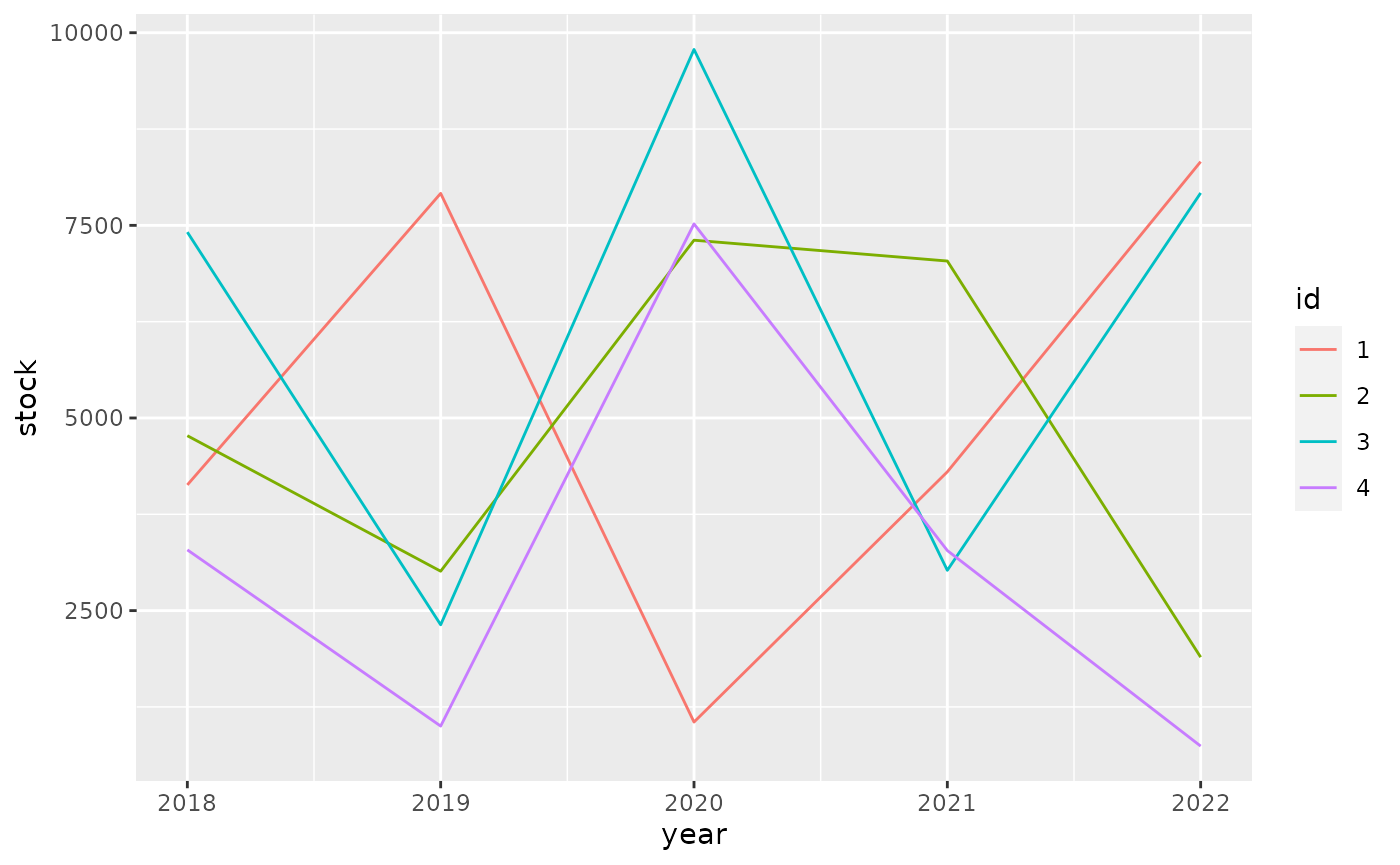
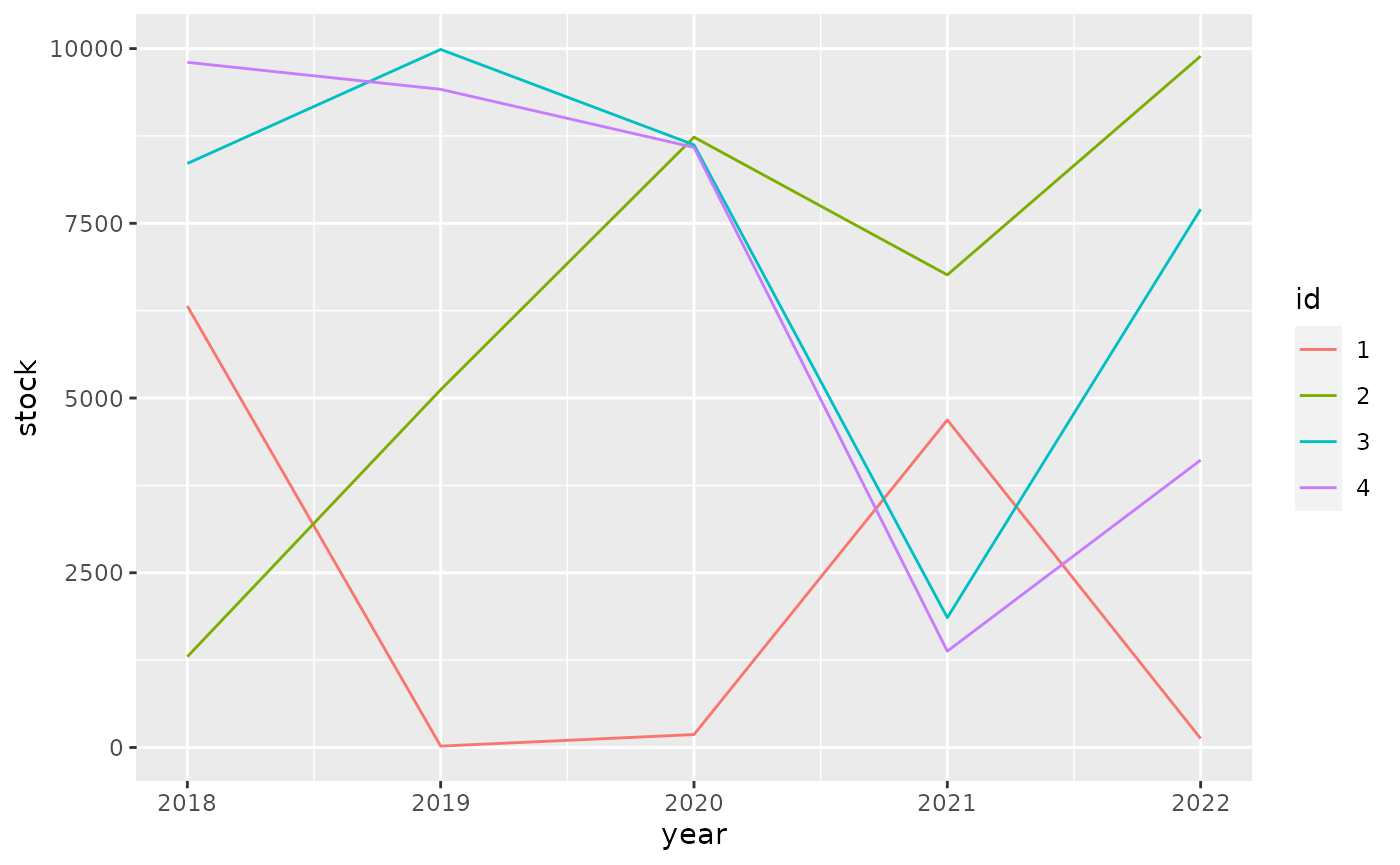
Built site for tibble: 3.1.0@9ace9a0

diff --git a/news/index.html b/news/index.html
@@ -197,43 +197,32 @@
 <h1 class="page-header" data-toc-text="3.1.0">
 <a href="#tibble-310" class="anchor"></a>tibble 3.1.0<small> Unreleased </small>
 </h1>
+<div id="bug-fixes" class="section level2">
+<h2 class="hasAnchor">
+<a href="#bug-fixes" class="anchor"></a>Bug fixes</h2>
 <ul>
-<li>Same as previous version.</li>
+<li><p><code><a href="../reference/rownames.html">has_rownames()</a></code> now works correctly for data frames with a <code>"row.names"</code> attribute malformed due to a problem in <code><a href="https://rdrr.io/r/base/structure.html" class="external-link">structure()</a></code> (<a href='https://github.com/tidyverse/tibble/issues/852'>#852</a>).</p></li>
+<li><p><code>tbl[FALSE, "column"] &lt;- x</code> adds new column again (<a href='https://github.com/tidyverse/tibble/issues/846'>#846</a>).</p></li>
 </ul>
 </div>
-    <div id="tibble-3069002" class="section level1">
-<h1 class="page-header" data-toc-text="3.0.6.9002">
-<a href="#tibble-3069002" class="anchor"></a>tibble 3.0.6.9002<small> Unreleased </small>
-</h1>
+<div id="features" class="section level2">
+<h2 class="hasAnchor">
+<a href="#features" class="anchor"></a>Features</h2>
 <ul>
-<li>cli and crayon are now suggested packages (<a href='https://github.com/tidyverse/tibble/issues/475'>#475</a>).</li>
-<li>
-<code><a href="../reference/rownames.html">has_rownames()</a></code> now works correctly for data frames with a <code>"row.names"</code> attribute malformed due to a problem in <code><a href="https://rdrr.io/r/base/structure.html" class="external-link">structure()</a></code> (<a href='https://github.com/tidyverse/tibble/issues/852'>#852</a>).</li>
-<li>Remove compatibility code for pillar &lt; 1.5.0 (<a href='https://github.com/tidyverse/tibble/issues/861'>#861</a>).</li>
-<li>Moved most functions to the “stable” lifecycle (<a href='https://github.com/tidyverse/tibble/issues/860'>#860</a>).</li>
-<li>Reexport <code><a href="https://pillar.r-lib.org//reference/type_sum.html" class="external-link">size_sum()</a></code> (<a href='https://github.com/tidyverse/tibble/issues/850'>#850</a>, <a href='https://github.com/topepo'>@topepo</a>).</li>
+<li><p>Importing pillar 1.5.0, cli and crayon are now suggested packages (<a href='https://github.com/tidyverse/tibble/issues/475'>#475</a>).</p></li>
+<li><p><code><a href="https://pillar.r-lib.org//reference/type_sum.html" class="external-link">size_sum()</a></code> is now reexported from pillar (<a href='https://github.com/tidyverse/tibble/issues/850'>#850</a>, <a href='https://github.com/topepo'>@topepo</a>).</p></li>
+<li><p><code><a href="../reference/as_tibble.html">as_tibble()</a></code> hints more often to use the <code>.name_repair</code> argument if column names are invalid (<a href='https://github.com/tidyverse/tibble/issues/855'>#855</a>).</p></li>
+<li><p><code><a href="../reference/as_tibble.html">as_tibble.table()</a></code> mentions <code>.name_repair</code> argument in the error message (<a href='https://github.com/tidyverse/tibble/issues/839'>#839</a>).</p></li>
 </ul>
 </div>
-    <div id="tibble-3069001" class="section level1">
-<h1 class="page-header" data-toc-text="3.0.6.9001">
-<a href="#tibble-3069001" class="anchor"></a>tibble 3.0.6.9001<small> Unreleased </small>
-</h1>
+<div id="internal" class="section level2">
+<h2 class="hasAnchor">
+<a href="#internal" class="anchor"></a>Internal</h2>
 <ul>
-<li>
-<code><a href="../reference/as_tibble.html">as_tibble()</a></code> hints more often to use the <code>.name_repair</code> argument if column names are invalid (<a href='https://github.com/tidyverse/tibble/issues/855'>#855</a>).</li>
-<li>
-<code><a href="../reference/as_tibble.html">as_tibble.table()</a></code> mentions <code>.name_repair</code> argument in the error message (<a href='https://github.com/tidyverse/tibble/issues/839'>#839</a>).</li>
-<li>
-<code>tbl[FALSE, "column"] &lt;- x</code> adds new column again (<a href='https://github.com/tidyverse/tibble/issues/846'>#846</a>).</li>
+<li><p>Remove compatibility code for pillar &lt; 1.5.0 (<a href='https://github.com/tidyverse/tibble/issues/861'>#861</a>).</p></li>
+<li><p>Moved most functions to the “stable” lifecycle (<a href='https://github.com/tidyverse/tibble/issues/860'>#860</a>).</p></li>
 </ul>
 </div>
-    <div id="tibble-3069000" class="section level1">
-<h1 class="page-header" data-toc-text="3.0.6.9000">
-<a href="#tibble-3069000" class="anchor"></a>tibble 3.0.6.9000<small> Unreleased </small>
-</h1>
-<ul>
-<li>Internal changes only.</li>
-</ul>
 </div>
     <div id="tibble-306" class="section level1">
 <h1 class="page-header" data-toc-text="3.0.6">
@@ -269,9 +258,9 @@
 <li><p>Adapt tests to the development version of testthat.</p></li>
 </ul>
 </div>
-<div id="bug-fixes" class="section level2">
+<div id="bug-fixes-1" class="section level2">
 <h2 class="hasAnchor">
-<a href="#bug-fixes" class="anchor"></a>Bug fixes</h2>
+<a href="#bug-fixes-1" class="anchor"></a>Bug fixes</h2>
 <ul>
 <li><p>Fix documentation link to <code><a href="https://rdrr.io/r/base/Extract.html" class="external-link">base::Extract</a></code>.</p></li>
 <li><p><code><a href="../reference/add_row.html">add_row(df)</a></code> adds an empty row again (<a href='https://github.com/tidyverse/tibble/issues/809'>#809</a>, <a href='https://github.com/DavisVaughan'>@DavisVaughan</a>).</p></li>
@@ -291,9 +280,9 @@
 <h1 class="page-header" data-toc-text="3.0.2">
 <a href="#tibble-302" class="anchor"></a>tibble 3.0.2<small> 2020-07-07 </small>
 </h1>
-<div id="bug-fixes-1" class="section level2">
+<div id="bug-fixes-2" class="section level2">
 <h2 class="hasAnchor">
-<a href="#bug-fixes-1" class="anchor"></a>Bug fixes</h2>
+<a href="#bug-fixes-2" class="anchor"></a>Bug fixes</h2>
 <ul>
 <li><p><code><a href="https://rdrr.io/r/base/Extract.html" class="external-link">[[</a></code> works with classed indexes again, e.g. created with <code><a href="https://glue.tidyverse.org/reference/glue.html" class="external-link">glue::glue()</a></code> (<a href='https://github.com/tidyverse/tibble/issues/778'>#778</a>).</p></li>
 <li><p><code><a href="../reference/add_column.html">add_column()</a></code> works without warning for 0-column data frames (<a href='https://github.com/tidyverse/tibble/issues/786'>#786</a>).</p></li>
@@ -330,9 +319,9 @@
 <li><p>Use delayed import for cli to work around unload problems in downstream packages (<a href='https://github.com/tidyverse/tibble/issues/754'>#754</a>).</p></li>
 </ul>
 </div>
-<div id="bug-fixes-2" class="section level2">
+<div id="bug-fixes-3" class="section level2">
 <h2 class="hasAnchor">
-<a href="#bug-fixes-2" class="anchor"></a>Bug fixes</h2>
+<a href="#bug-fixes-3" class="anchor"></a>Bug fixes</h2>
 <ul>
 <li><p>More soft-deprecation warnings are actually visible.</p></li>
 <li><p>If <code>.name_repair</code> is a function, no repair messages are shown (<a href='https://github.com/tidyverse/tibble/issues/763'>#763</a>).</p></li>
@@ -409,9 +398,9 @@
 <li><p>Preparing to move <code><a href="https://pillar.r-lib.org//reference/glimpse.html" class="external-link">glimpse()</a></code> and <code><a href="https://pillar.r-lib.org//reference/tbl_sum.html" class="external-link">tbl_sum()</a></code> to the pillar package. If your package implements these methods, please import the generics from pillar as soon as they become available there.</p></li>
 </ul>
 </div>
-<div id="features" class="section level2">
+<div id="features-1" class="section level2">
 <h2 class="hasAnchor">
-<a href="#features" class="anchor"></a>Features</h2>
+<a href="#features-1" class="anchor"></a>Features</h2>
 <ul>
 <li><p>Internals now make heavy use of the vctrs package, following most of the invariants defined there. Name repair is the responsibility of vctrs now (<a href='https://github.com/tidyverse/tibble/issues/464'>#464</a>).</p></li>
 <li>
@@ -454,9 +443,9 @@
 <li>Construction and subsetting of large data frames is faster now (<a href='https://github.com/tidyverse/tibble/issues/717'>#717</a>, <a href='https://github.com/romainfrancois'>@romainfrancois</a>).</li>
 </ul>
 </div>
-<div id="internal" class="section level2">
+<div id="internal-1" class="section level2">
 <h2 class="hasAnchor">
-<a href="#internal" class="anchor"></a>Internal</h2>
+<a href="#internal-1" class="anchor"></a>Internal</h2>
 <ul>
 <li><p>Import lifecycle package (<a href='https://github.com/tidyverse/tibble/issues/669'>#669</a>).</p></li>
 <li><p><code><a href="../reference/new_tibble.html">new_tibble()</a></code> removes redundant subclasses from the <code>"class"</code> attribute.</p></li>
@@ -600,9 +589,9 @@
 <li><p><code><a href="https://pillar.r-lib.org//reference/glimpse.html" class="external-link">glimpse()</a></code> shows information obtained from <code><a href="https://pillar.r-lib.org//reference/tbl_sum.html" class="external-link">tbl_sum()</a></code>, e.g. grouping information for <code>grouped_df</code> from dplyr (<a href='https://github.com/tidyverse/tibble/issues/550'>#550</a>).</p></li>
 </ul>
 </div>
-<div id="bug-fixes-3" class="section level2">
+<div id="bug-fixes-4" class="section level2">
 <h2 class="hasAnchor">
-<a href="#bug-fixes-3" class="anchor"></a>Bug fixes</h2>
+<a href="#bug-fixes-4" class="anchor"></a>Bug fixes</h2>
 <ul>
 <li><p><code><a href="https://pillar.r-lib.org//reference/glimpse.html" class="external-link">glimpse()</a></code> takes coloring into account when computing column width, the output is no longer truncated prematurely when coloring is enabled.</p></li>
 <li><p><code><a href="https://pillar.r-lib.org//reference/glimpse.html" class="external-link">glimpse()</a></code> disambiguates outputs for factors if the levels contain commas (<a href='https://github.com/tidyverse/tibble/issues/384'>#384</a>, <a href='https://github.com/anhqle'>@anhqle</a>).</p></li>
@@ -610,9 +599,9 @@
 <li><p>Fixed output for extra column names that contain spaces.</p></li>
 </ul>
 </div>
-<div id="internal-1" class="section level2">
+<div id="internal-2" class="section level2">
 <h2 class="hasAnchor">
-<a href="#internal-1" class="anchor"></a>Internal</h2>
+<a href="#internal-2" class="anchor"></a>Internal</h2>
 <ul>
 <li><p>Skip dplyr in tests if unavailable (<a href='https://github.com/tidyverse/tibble/issues/420'>#420</a>, <a href='https://github.com/QuLogic'>@QuLogic</a>).</p></li>
 <li><p>Skip mockr in tests if unavailable (<a href='https://github.com/tidyverse/tibble/issues/454'>#454</a>, <a href='https://github.com/Enchufa2'>@Enchufa2</a>).</p></li>
@@ -631,9 +620,9 @@
 <h1 class="page-header" data-toc-text="1.4.2">
 <a href="#tibble-142" class="anchor"></a>tibble 1.4.2<small> 2018-01-22 </small>
 </h1>
-<div id="bug-fixes-4" class="section level2">
+<div id="bug-fixes-5" class="section level2">
 <h2 class="hasAnchor">
-<a href="#bug-fixes-4" class="anchor"></a>Bug fixes</h2>
+<a href="#bug-fixes-5" class="anchor"></a>Bug fixes</h2>
 <ul>
 <li>Fix OS X builds.</li>
 <li>The <code>tibble.width</code> option is honored again (<a href='https://github.com/tidyverse/tibble/issues/369'>#369</a>).</li>
@@ -644,9 +633,9 @@
 <code><a href="https://pillar.r-lib.org//reference/glimpse.html" class="external-link">glimpse()</a></code> returns its input for zero-column data frames.</li>
 </ul>
 </div>
-<div id="features-1" class="section level2">
+<div id="features-2" class="section level2">
 <h2 class="hasAnchor">
-<a href="#features-1" class="anchor"></a>Features</h2>
+<a href="#features-2" class="anchor"></a>Features</h2>
 <ul>
 <li>
 <code><a href="../reference/enframe.html">enframe(NULL)</a></code> now returns the same as <code><a href="../reference/enframe.html">enframe(logical())</a></code> (<a href='https://github.com/tidyverse/tibble/issues/352'>#352</a>).</li>
@@ -688,9 +677,9 @@
 <code><a href="../reference/subsetting.html">`[.tbl_df`()</a></code> supports <code>drop = TRUE</code> and omits the warning if <code>j</code> is passed. The calls <code>df[i, j, drop = TRUE]</code> and <code>df[j, drop = TRUE]</code> are now compatible with data frames again (<a href='https://github.com/tidyverse/tibble/issues/307'>#307</a>, <a href='https://github.com/tidyverse/tibble/issues/311'>#311</a>).</li>
 </ul>
 </div>
-<div id="bug-fixes-5" class="section level2">
+<div id="bug-fixes-6" class="section level2">
 <h2 class="hasAnchor">
-<a href="#bug-fixes-5" class="anchor"></a>Bug fixes</h2>
+<a href="#bug-fixes-6" class="anchor"></a>Bug fixes</h2>
 <ul>
 <li>Improved compatibility with remote data sources for <code><a href="https://pillar.r-lib.org//reference/glimpse.html" class="external-link">glimpse()</a></code> (<a href='https://github.com/tidyverse/tibble/issues/328'>#328</a>).</li>
 <li>Logical indexes are supported, a warning is raised if the length does not match the number of rows or 1 (<a href='https://github.com/tidyverse/tibble/issues/318'>#318</a>).</li>
@@ -714,9 +703,9 @@
 <h1 class="page-header" data-toc-text="1.3.4">
 <a href="#tibble-134" class="anchor"></a>tibble 1.3.4<small> 2017-08-22 </small>
 </h1>
-<div id="bug-fixes-6" class="section level2">
+<div id="bug-fixes-7" class="section level2">
 <h2 class="hasAnchor">
-<a href="#bug-fixes-6" class="anchor"></a>Bug fixes</h2>
+<a href="#bug-fixes-7" class="anchor"></a>Bug fixes</h2>
 <ul>
 <li>Values of length 1 in a <code><a href="../reference/tibble.html">tibble()</a></code> call are recycled prior to evaluating subsequent arguments, improving consistency with <code><a href="https://dplyr.tidyverse.org/reference/mutate.html" class="external-link">mutate()</a></code> (<a href='https://github.com/tidyverse/tibble/issues/213'>#213</a>).</li>
 <li>Recycling of values of length 1 in a <code><a href="../reference/tibble.html">tibble()</a></code> call maintains their class (<a href='https://github.com/tidyverse/tibble/issues/284'>#284</a>).</li>
@@ -745,9 +734,9 @@
 <h1 class="page-header" data-toc-text="1.3.3">
 <a href="#tibble-133" class="anchor"></a>tibble 1.3.3<small> 2017-05-28 </small>
 </h1>
-<div id="bug-fixes-7" class="section level2">
+<div id="bug-fixes-8" class="section level2">
 <h2 class="hasAnchor">
-<a href="#bug-fixes-7" class="anchor"></a>Bug fixes</h2>
+<a href="#bug-fixes-8" class="anchor"></a>Bug fixes</h2>
 <ul>
 <li>Added <code><a href="https://rdrr.io/r/base/format.html" class="external-link">format()</a></code> and <code><a href="https://rdrr.io/r/base/print.html" class="external-link">print()</a></code> methods for both <code>tbl</code> and <code>tbl_df</code> classes, to protect against malformed tibbles that inherit from <code>"tbl_df"</code> but not <code>"tbl"</code>, as created e.g. by <code><a href="https://dplyr.tidyverse.org/reference/group_by.html" class="external-link">ungroup()</a></code> in dplyr 0.5.0 and earlier (<a href='https://github.com/tidyverse/tibble/issues/256'>#256</a>, <a href='https://github.com/tidyverse/tibble/issues/263'>#263</a>).</li>
 <li>The column width for non-syntactic columns is computed correctly again (<a href='https://github.com/tidyverse/tibble/issues/258'>#258</a>).</li>
@@ -761,9 +750,9 @@
 <h1 class="page-header" data-toc-text="1.3.1">
 <a href="#tibble-131" class="anchor"></a>tibble 1.3.1<small> 2017-05-17 </small>
 </h1>
-<div id="bug-fixes-8" class="section level2">
+<div id="bug-fixes-9" class="section level2">
 <h2 class="hasAnchor">
-<a href="#bug-fixes-8" class="anchor"></a>Bug fixes</h2>
+<a href="#bug-fixes-9" class="anchor"></a>Bug fixes</h2>
 <ul>
 <li>Subsetting zero columns no longer returns wrong number of rows (<a href='https://github.com/tidyverse/tibble/issues/241'>#241</a>, <a href='https://github.com/echasnovski'>@echasnovski</a>).</li>
 </ul>
@@ -806,9 +795,9 @@
 <h1 class="page-header" data-toc-text="1.3.0">
 <a href="#tibble-130" class="anchor"></a>tibble 1.3.0<small> 2017-04-01 </small>
 </h1>
-<div id="bug-fixes-9" class="section level2">
+<div id="bug-fixes-10" class="section level2">
 <h2 class="hasAnchor">
-<a href="#bug-fixes-9" class="anchor"></a>Bug fixes</h2>
+<a href="#bug-fixes-10" class="anchor"></a>Bug fixes</h2>
 <ul>
 <li>Time series matrices (objects of class <code>mts</code> and <code>ts</code>) are now supported in <code><a href="../reference/as_tibble.html">as_tibble()</a></code> (<a href='https://github.com/tidyverse/tibble/issues/184'>#184</a>).</li>
 <li>The <code><a href="https://dplyr.tidyverse.org/reference/all_equal.html" class="external-link">all_equal()</a></code> function (called by <code>all.equal.tbl_df()</code>) now forwards to <code>dplyr</code> and fails with a helpful message if not installed. Data frames with list columns cannot be compared anymore, and differences in the declared class (<code>data.frame</code> vs. <code>tbl_df</code>) are ignored. The <code>all.equal.tbl_df()</code> method gives a warning and forwards to <code><a href="https://rdrr.io/r/base/UseMethod.html" class="external-link">NextMethod()</a></code> if <code>dplyr</code> is not installed; call <code><a href="https://rdrr.io/r/base/all.equal.html" class="external-link">all.equal(as.data.frame(...), ...)</a></code> to avoid the warning. This ensures consistent behavior of this function, regardless if <code>dplyr</code> is loaded or not (<a href='https://github.com/tidyverse/tibble/issues/198'>#198</a>).</li>
@@ -825,9 +814,9 @@
 <li>Removed unused dependency on <code>assertthat</code>.</li>
 </ul>
 </div>
-<div id="features-2" class="section level2">
+<div id="features-3" class="section level2">
 <h2 class="hasAnchor">
-<a href="#features-2" class="anchor"></a>Features</h2>
+<a href="#features-3" class="anchor"></a>Features</h2>
 <div id="general" class="section level3">
 <h3 class="hasAnchor">
 <a href="#general" class="anchor"></a>General</h3>
@@ -867,9 +856,9 @@
 <li>Now explicitly stating minimum Rcpp version 0.12.3.</li>
 </ul>
 </div>
-<div id="internal-2" class="section level2">
+<div id="internal-3" class="section level2">
 <h2 class="hasAnchor">
-<a href="#internal-2" class="anchor"></a>Internal</h2>
+<a href="#internal-3" class="anchor"></a>Internal</h2>
 <ul>
 <li>Using registration of native routines.</li>
 </ul>
@@ -879,9 +868,9 @@
 <h1 class="page-header" data-toc-text="1.2">
 <a href="#tibble-12" class="anchor"></a>tibble 1.2<small> 2016-08-26 </small>
 </h1>
-<div id="bug-fixes-10" class="section level2">
+<div id="bug-fixes-11" class="section level2">
 <h2 class="hasAnchor">
-<a href="#bug-fixes-10" class="anchor"></a>Bug fixes</h2>
+<a href="#bug-fixes-11" class="anchor"></a>Bug fixes</h2>
 <ul>
 <li>The <code>tibble.width</code> option is used for <code><a href="https://pillar.r-lib.org//reference/glimpse.html" class="external-link">glimpse()</a></code> only if it is finite (<a href='https://github.com/tidyverse/tibble/issues/153'>#153</a>, <a href='https://github.com/kwstat'>@kwstat</a>).</li>
 <li>New <code>as_tibble.poly()</code> to support conversion of a <code>poly</code> object to a tibble (<a href='https://github.com/tidyverse/tibble/issues/110'>#110</a>).</li>
@@ -903,9 +892,9 @@
 <li>Rename <code><a href="../reference/deprecated.html">frame_data()</a></code> to <code><a href="../reference/tribble.html">tribble()</a></code>, stands for “transposed tibble”. The former is still available as alias (<a href='https://github.com/tidyverse/tibble/issues/132'>#132</a>, <a href='https://github.com/tidyverse/tibble/issues/143'>#143</a>).</li>
 </ul>
 </div>
-<div id="features-3" class="section level2">
+<div id="features-4" class="section level2">
 <h2 class="hasAnchor">
-<a href="#features-3" class="anchor"></a>Features</h2>
+<a href="#features-4" class="anchor"></a>Features</h2>
 <ul>
 <li>
 <code><a href="../reference/add_row.html">add_row()</a></code> now can add multiple rows, with recycling (<a href='https://github.com/tidyverse/tibble/issues/142'>#142</a>, <a href='https://github.com/jennybc'>@jennybc</a>).</li>
@@ -997,9 +986,9 @@
 <code><a href="../reference/rownames.html">has_rownames()</a></code> supports arguments that are not data frames.</li>
 </ul>
 </div>
-<div id="bug-fixes-11" class="section level2">
+<div id="bug-fixes-12" class="section level2">
 <h2 class="hasAnchor">
-<a href="#bug-fixes-11" class="anchor"></a>Bug fixes</h2>
+<a href="#bug-fixes-12" class="anchor"></a>Bug fixes</h2>
 <ul>
 <li>Two-dimensional indexing with <code><a href="https://rdrr.io/r/base/Extract.html" class="external-link">[[</a></code> works (<a href='https://github.com/tidyverse/tibble/issues/58'>#58</a>, <a href='https://github.com/tidyverse/tibble/issues/63'>#63</a>).</li>
 <li>Subsetting with empty index (e.g., <code>x[]</code>) also removes row names.</li>
@@ -1013,9 +1002,9 @@
 <li>Document and test that subsetting removes row names.</li>
 </ul>
 </div>
-<div id="internal-3" class="section level2">
+<div id="internal-4" class="section level2">
 <h2 class="hasAnchor">
-<a href="#internal-3" class="anchor"></a>Internal</h2>
+<a href="#internal-4" class="anchor"></a>Internal</h2>
 <ul>
 <li>Don’t rely on <code>knitr</code> internals for testing (<a href='https://github.com/tidyverse/tibble/issues/78'>#78</a>).</li>
 <li>Fix compatibility with <code>knitr</code> 1.13 (<a href='https://github.com/tidyverse/tibble/issues/76'>#76</a>).</li>

diff --git a/articles/formats.html b/articles/formats.html
@@ -220,10 +220,10 @@
 <span class="co">#&gt; # A tibble: 4 x 6</span>
 <span class="co">#&gt;   id       `2018`    `2019`    `2020`    `2021`    `2022`</span>
 <span class="co">#&gt;   &lt;fct&gt; &lt;dbl:fmt&gt; &lt;dbl:fmt&gt; &lt;dbl:fmt&gt; &lt;dbl:fmt&gt; &lt;dbl:fmt&gt;</span>
-<span class="co">#&gt; 1 1     $4,131.46 $7,914.92 $1,053.66 $4,301.20 $8,326.77</span>
-<span class="co">#&gt; 2 2     $4,770.05 $3,011.32 $7,307.37 $7,037.03 $1,895.60</span>
-<span class="co">#&gt; 3 3     $7,412.22 $2,316.11 $9,783.00 $3,022.91 $7,920.56</span>
-<span class="co">#&gt; 4 4     $3,288.41 $1,001.44 $7,519.15 $3,279.75   $741.68</span></code></pre></div>
+<span class="co">#&gt; 1 1     $6,316.35    $19.98   $184.93 $4,686.03   $127.70</span>
+<span class="co">#&gt; 2 2     $1,299.03 $5,118.78 $8,732.82 $6,762.30 $9,892.37</span>
+<span class="co">#&gt; 3 3     $8,355.76 $9,987.80 $8,623.26 $1,858.24 $7,703.03</span>
+<span class="co">#&gt; 4 4     $9,803.43 $9,417.39 $8,586.63 $1,378.29 $4,112.72</span></code></pre></div>
 <p>For ggplot2 we need to do <a href="https://github.com/tidyverse/ggplot2/pull/4065" class="external-link">some work</a> to show apply the formatting to the scales.</p>
 <div class="sourceCode" id="cb6"><pre class="downlit sourceCode r">
 <code class="sourceCode R"><span class="kw"><a href="https://rdrr.io/r/base/library.html" class="external-link">library</a></span><span class="op">(</span><span class="va"><a href="https://ggplot2.tidyverse.org" class="external-link">ggplot2</a></span><span class="op">)</span>
@@ -234,10 +234,10 @@
   <span class="fu"><a href="https://ggplot2.tidyverse.org/reference/geom_path.html" class="external-link">geom_line</a></span><span class="op">(</span><span class="op">)</span></code></pre></div>
 <p><img src="formats_files/figure-html/unnamed-chunk-7-1.png" width="700"></p>
 <p>It pays off to specify formatting very early in the process. The diagram below shows the principal stages of data analysis and exploration from “R for data science”.</p>
-<div id="htmlwidget-e306335c74ae1880250c" style="width:700px;height:432.632880098888px;" class="DiagrammeR html-widget"></div>
-<script type="application/json" data-for="htmlwidget-e306335c74ae1880250c">{"x":{"diagram":"graph TD\n  Import --> Tidy\n  Tidy --> Transform\n  Transform --> Visualize\n  Visualize --> Communicate\n  Visualize --> Model\n  Model -.-> Transform"},"evals":[],"jsHooks":[]}</script><p>The subsequent diagram adds data formats, communication options, and explicit data formatting. The original r4ds transitions are highlighted in bold. There are two principal options where to apply formatting for results: right before communicating them, or right after importing.</p>
-<div id="htmlwidget-6c613653ed3e46d16a51" style="width:700px;height:432.632880098888px;" class="DiagrammeR html-widget"></div>
-<script type="application/json" data-for="htmlwidget-6c613653ed3e46d16a51">{"x":{"diagram":"graph TD\n  .csv --> Import\n  API --> Import\n  DBI --> Import\n  dbplyr --> Import\n  Import -.-> Format[Format for analysis]\n  Format -.-> Tidy\n\n  subgraph r4ds\n  Import ==> Tidy\n  Tidy ==> Transform\n  Transform ==> Visualize\n  Visualize ==> Model\n  Model -.-> Transform\n  Visualize ==> Communicate\n  end\n\n  Visualize -.-> FormatComm[Format for communication]\n  FormatComm -.-> Communicate\n\n  FormatComm -- Apply formatting early --> Format\n\n  dbplyr -.-> Tidy\n  dbplyr -.-> Transform\n  dbplyr -.-> Visualize\n\n  Communicate --> gt\n  Communicate --> ggplot2\n  Communicate --> DT\n  Communicate --> plotly"},"evals":[],"jsHooks":[]}</script><p>Applying formatting early in the process gives the added benefit of showing the data in a useful format during the “Tidy”, “Transform”, and “Visualize” stages. For this to be useful, we need to ensure that the formatting options applied early:</p>
+<div id="htmlwidget-a6d0442f6131dd9437c5" style="width:700px;height:432.632880098888px;" class="DiagrammeR html-widget"></div>
+<script type="application/json" data-for="htmlwidget-a6d0442f6131dd9437c5">{"x":{"diagram":"graph TD\n  Import --> Tidy\n  Tidy --> Transform\n  Transform --> Visualize\n  Visualize --> Communicate\n  Visualize --> Model\n  Model -.-> Transform"},"evals":[],"jsHooks":[]}</script><p>The subsequent diagram adds data formats, communication options, and explicit data formatting. The original r4ds transitions are highlighted in bold. There are two principal options where to apply formatting for results: right before communicating them, or right after importing.</p>
+<div id="htmlwidget-3abdb857c88e30400bcc" style="width:700px;height:432.632880098888px;" class="DiagrammeR html-widget"></div>
+<script type="application/json" data-for="htmlwidget-3abdb857c88e30400bcc">{"x":{"diagram":"graph TD\n  .csv --> Import\n  API --> Import\n  DBI --> Import\n  dbplyr --> Import\n  Import -.-> Format[Format for analysis]\n  Format -.-> Tidy\n\n  subgraph r4ds\n  Import ==> Tidy\n  Tidy ==> Transform\n  Transform ==> Visualize\n  Visualize ==> Model\n  Model -.-> Transform\n  Visualize ==> Communicate\n  end\n\n  Visualize -.-> FormatComm[Format for communication]\n  FormatComm -.-> Communicate\n\n  FormatComm -- Apply formatting early --> Format\n\n  dbplyr -.-> Tidy\n  dbplyr -.-> Transform\n  dbplyr -.-> Visualize\n\n  Communicate --> gt\n  Communicate --> ggplot2\n  Communicate --> DT\n  Communicate --> plotly"},"evals":[],"jsHooks":[]}</script><p>Applying formatting early in the process gives the added benefit of showing the data in a useful format during the “Tidy”, “Transform”, and “Visualize” stages. For this to be useful, we need to ensure that the formatting options applied early:</p>
 <ul>
 <li>give a good user experience for analysis
 <ul>

diff --git a/articles/types.html b/articles/types.html
@@ -351,7 +351,7 @@
 #&gt; $ factor        &lt;fct&gt; A
 #&gt; $ ordered       &lt;ord&gt; a
 #&gt; $ Date          &lt;date&gt; 2021-02-23
-#&gt; $ POSIXt        &lt;dttm&gt; 2021-02-23 08:45:36
+#&gt; $ POSIXt        &lt;dttm&gt; 2021-02-23 08:58:01
 #&gt; $ difftime      &lt;drtn&gt; 1 secs
 #&gt; $ hms           &lt;time&gt; 00:00:01
 #&gt; $ integer64     &lt;int64&gt; 10000000000
@@ -381,7 +381,7 @@
 <span class="co">#&gt;             "sym"</span>
 <span class="co">#&gt;         }, typeof(x))</span>
 <span class="co">#&gt; }</span>
-<span class="co">#&gt; &lt;bytecode: 0x55786dc413d0&gt;</span>
+<span class="co">#&gt; &lt;bytecode: 0x55beaa065280&gt;</span>
 <span class="co">#&gt; &lt;environment: namespace:pillar&gt;</span></code></pre></div>
 </div>
   </div>
